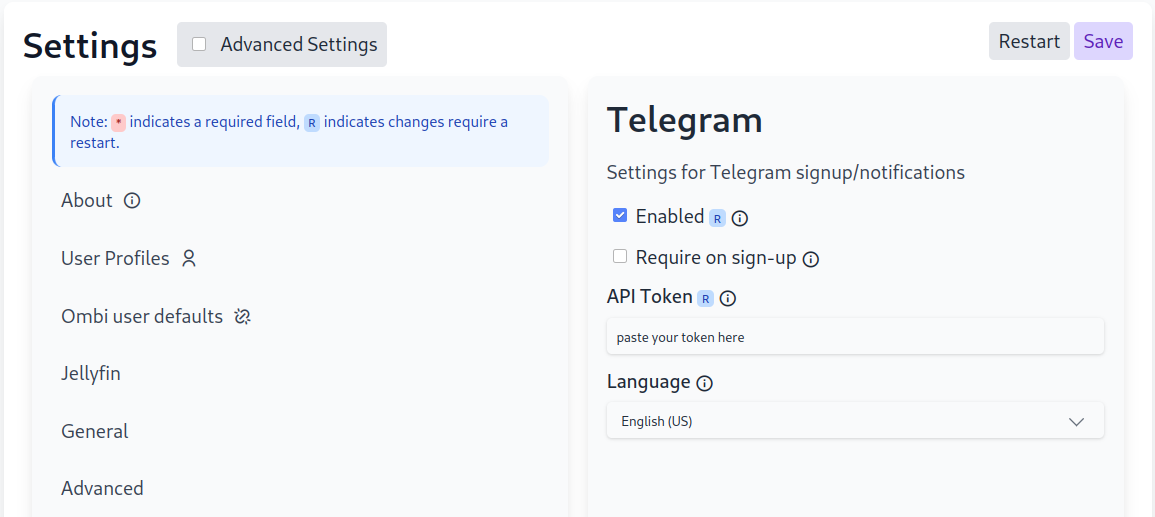
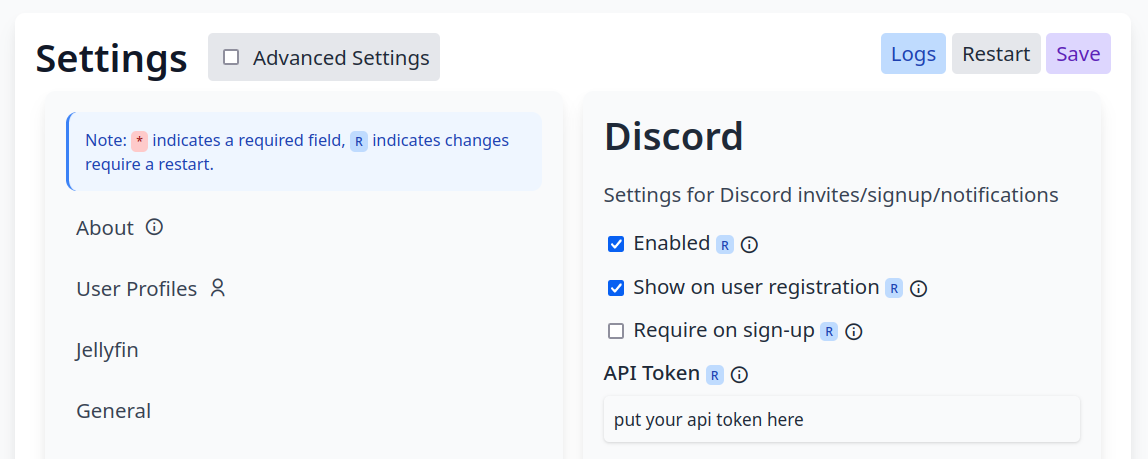
remove reference & sc to telegram in discord bot setup

diff --git a/content/docs/bots/discord.md b/content/docs/bots/discord.md
@@ -46,7 +46,7 @@ https://discordapp.com/oauth2/authorize?&client_id=YOUR_CLIENT_ID&scope=bot&perm
 ![bot permissions](/discord/6.jpg)
 
 ### 7: Copy the token
-Switch back to the "Bot" tab, and press the "Copy" button to copy the bot token. In jfa-go, go to Settings > Telegram, enable it, and paste the token into the "API Token" box. Save and restart.
+Switch back to the "Bot" tab, and press the "Copy" button to copy the bot token. In jfa-go, go to Settings > Discord, enable it, and paste the token into the "API Token" box. Save and restart.
 
 ![copy token](/discord/7.jpg)
 ![paste here](/discord/8.jpg)
